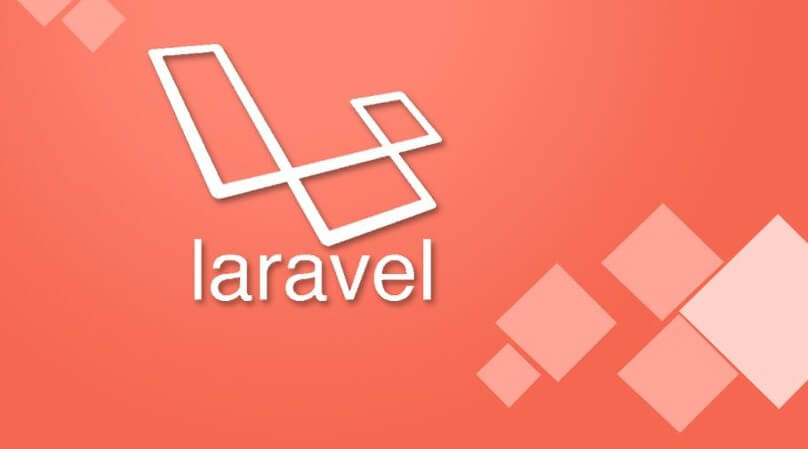
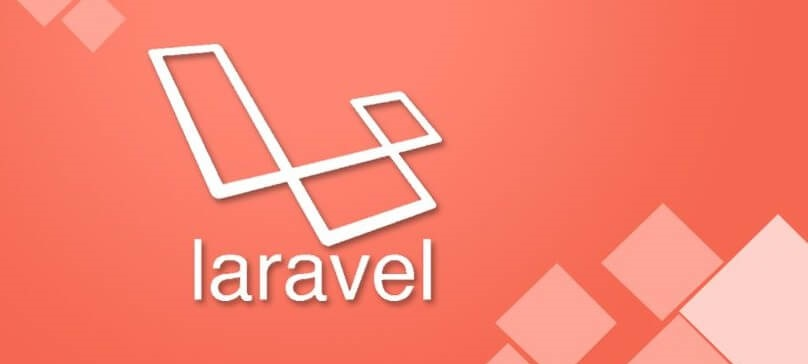
new welcome page
welcome page  has fadeing images
responsive

diff --git a/public/css/custom.css b/public/css/custom.css
@@ -1,3 +1,4 @@
+
 body{
   margin: 100px 0px 100px 0px;
   background-color: white;/*for browsers do not support linear-gradient*/
@@ -5,9 +6,9 @@ body{
 }
 
 h1{
-  font-weight: bold;
-  text-shadow: -3px -2px 1px red;
+  font-weight: 900;
   margin-bottom: 20px;
+  text-decoration: underline red;
 }
 
 p{
@@ -39,7 +40,7 @@ p{
 /*login-register buttons*/
 .logbtn{
   position: fixed;
-  right: 10%;
+  right: 5%;
 }
 
 /*welcome page style*/
@@ -49,7 +50,7 @@ p{
   background-repeat: no-repeat;
   background-size: 100%;
   flex: 0 0 100%;
-  min-height: 70vh;
+  min-height: 50vh;
   position: relative;
 }
 
@@ -62,6 +63,7 @@ p{
   border-radius: 3px;
   outline: none;
   font-size: 40px;
+  visibility: hidden;
 }
 
 .btn_prev{
@@ -192,13 +194,13 @@ p{
 }
 
 
+
 /*////////////////////////////////RESPONSIVE DESIGN STARTS FROM HERE///////////////////////////////////////////////////*/
 
 
 
 /* Desktop sized screen style from here*/
-@media screen and (min-width: 980px)  {
-
+@media screen and (min-width: 1025px)  {
 
 /*large social media buttons zoomed and moved*/
   .social_group{
@@ -313,9 +315,14 @@ p{
 
 
 /* Tablet sized screen style */ 
-@media screen  and (max-width: 979px) {
+@media screen  and (max-width: 1024px) {
 
-
+/* Welcome page images */
+  .wp_images{
+    min-height: 20vh;
+    margin-left: 40px;
+    margin-right: -20px;
+  }
 
 /*large social media buttons zoomed and moved*/
   .social_group{
@@ -413,7 +420,7 @@ p{
 
 
 /* Mobile */
-@media screen and (max-width: 500px)  {
+@media screen and (max-width: 415px)  {
   
 
   .col-md-8,
@@ -445,6 +452,17 @@ p{
 
   #post_index{
     margin: 10px;
+  }
+
+/* Welcome page images */
+  .wp_images{
+    visibility: hidden;
+  }
+  .wpsmall_img{
+    position: absolute;
+    top: -20px;
+    max-width: 80%;
+    margin: 10%;
   }
 
 /*footer style*/

diff --git a/public/js/custom.js b/public/js/custom.js
@@ -15,11 +15,32 @@ function scrollFunction() {
   }
 }
 
+
 /* Welcome page image slider */
+const container = document.querySelector('.wp_images');
+const next = document.querySelector('.btn_next');
+const prev = document.querySelector('.btn_prev');
+
+let counter = 0;
+
+function auto(){
+  counter++;
+  container.style.backgroundImage = `url(images/img-${counter}.JPG)`;
+  container.animate([{opacity:'0.1'}, {opacity:'0.3'}, {opacity:'0.6'}, {opacity:'1'}], {duration: 1000, fill: 'forwards'});
+
+
+  if(counter === 8){
+    counter = -1;
+  }
+}
+
+setInterval(auto, 3000);
+
+
+/*
 const next = document.querySelector('.btn_next');
 const prev = document.querySelector('.btn_prev');
 const container = document.querySelector('.wp_images');
-const wp_start = document.querySelector('.wp_start');
 
 
 let counter = 0;
@@ -34,7 +55,7 @@ function nextSlide(){
     container.animate([{opacity:'0.1'}, {opacity:'0.3'}, {opacity:'0.5'}, {opacity:'0.8'}], {duration: 1000, fill: 'forwards'});
 
     
-/** counter goes back to default image and starts again*/
+
     if(counter === 8){
         counter = 0;
     }
@@ -56,3 +77,4 @@ function prevSlide(){
     container.style.backgroundImage = `url(images/img-${counter}.JPG)`;
  
 }
+*/

diff --git a/resources/views/pages/index.blade.php b/resources/views/pages/index.blade.php
@@ -15,17 +15,17 @@
             
             <div class="container">
                 <div class="row">
-                    <div class="col-md-4 col-sm-4">
+                    <div class="col-md-3 col-sm-3">
                         @include('inc.socialmedia')
                     </div>
-                    <div class="col-md-4 col-sm-4">
+                    <div class="col-md-7 col-sm-7">
                         <div class="wp_images">
-                            <div class="wp_start"></div>
                             <i class="wp_btn btn_prev fa fa-angle-left" aria-hidden="true"></i>
                             <i class="wp_btn btn_next fa fa-angle-right" aria-hidden="true"></i>
                         </div>
+                        <img src={{ asset('images/img-0.jpg') }} class="hidden wpsmall_img img-fluid" alt="Responsive image">
                     </div>
-                    <div class="col-md-4 col-sm-4">                    
+                    <div class="col-md-2 col-sm-2">                    
                         <div class="logbtn mb-xl-5 float-right d-none d-lg-block">
                             <a class="btn btn-primary btn-sm" href="/mylara/public/login" role="button">Login</a>
                             <a class="btn btn-success btn-sm" href="/mylara/public/register" role="button">Register</a>
